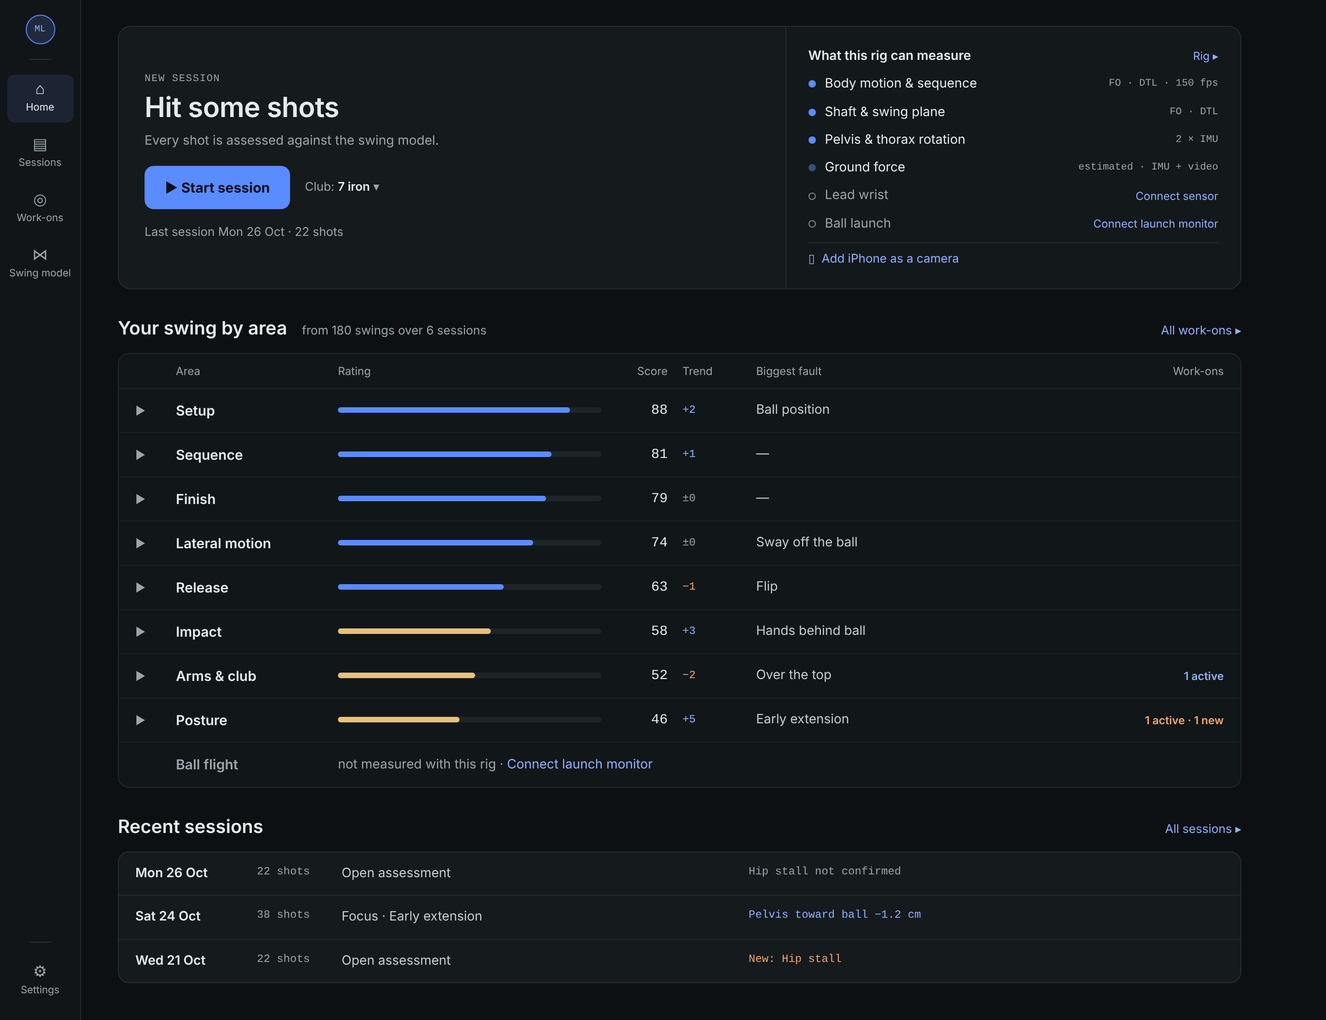
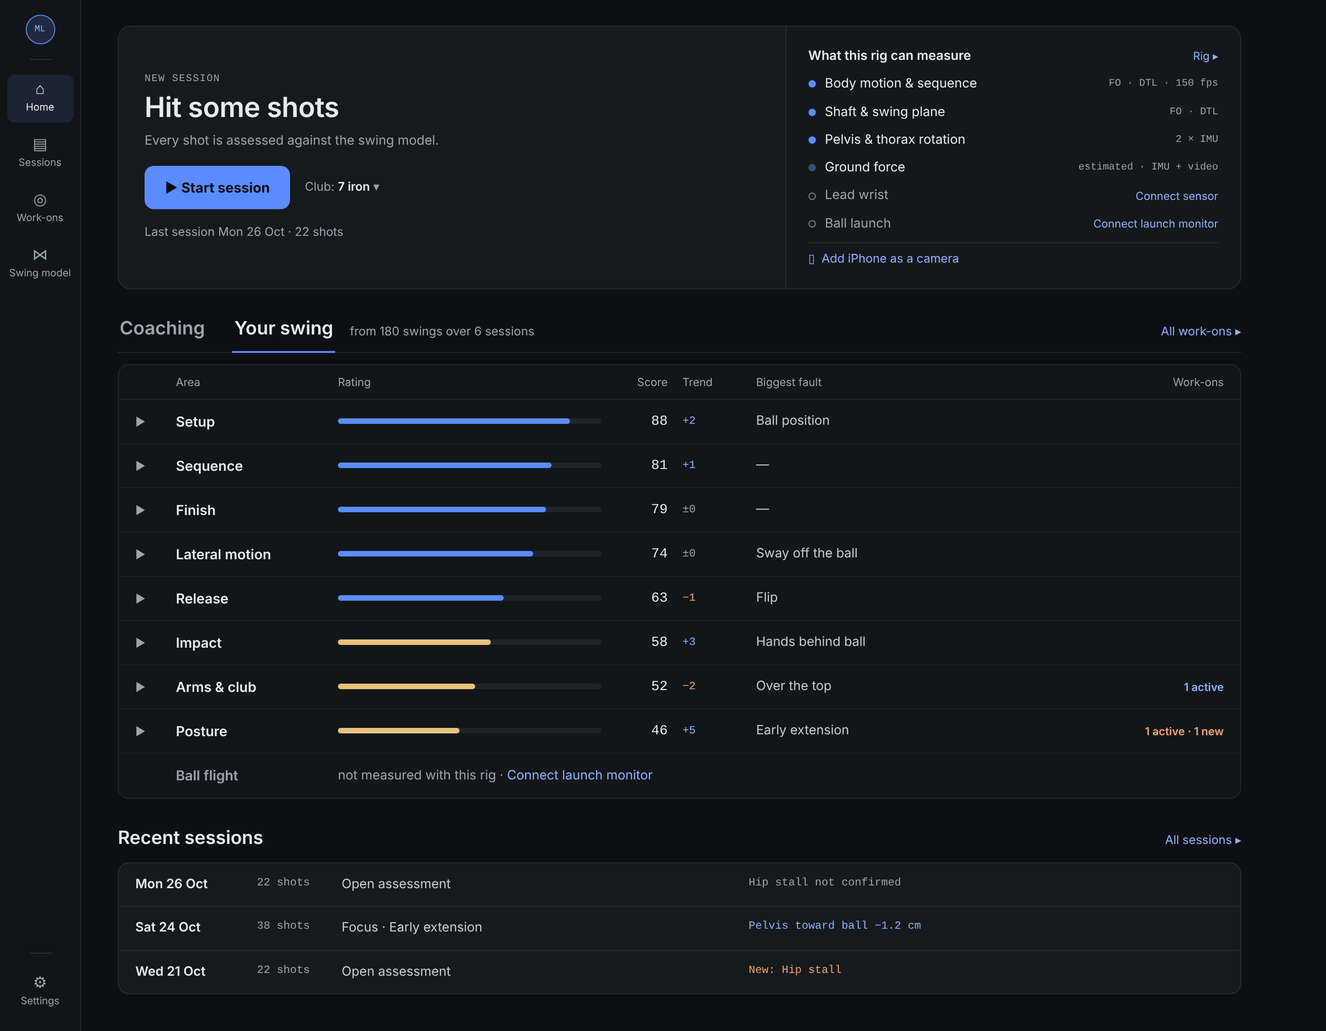
Docs: the four-modes refactor keeps the coaching summary as a Home tab, in a new visual language
Home's centrepiece is now two tabs on one tab bar: Coaching (the existing
work-ons summary and focus, same controller and words, redrawn) and Your
swing (the by-area table). Coaching is the default; the last tab is
remembered per athlete.

A new section 2.5 sets out the visual language as an app-wide aesthetic,
not a restyle of Home: table cards with hairline rows, expandable rows,
title-size tabs, the 10-segment how-often meter, trend tags and session
pips. It lists the shared components, the rule for updating an existing
component versus adding one (never fork), and the theme tokens needed in
all six aesthetics. Phase 4 gains a 4a step that builds those components
first, with before/after theme captures, so any regression elsewhere ships
apart from the Home rebuild.

The mockup and the two Home renders are updated, and two images are added:
03_home_coaching.png (the Coaching tab) and coaching_existing.png (today's
look, for comparison).

diff --git a/docs/design/ux_refactor_away_from_4_modes/home_mockup.html b/docs/design/ux_refactor_away_from_4_modes/home_mockup.html
@@ -49,6 +49,13 @@ h2{margin:0;font-size:20px;font-weight:600}
 .sess{background:#151A1D;border:1px solid #252D32;border-radius:12px}
 .srow{display:grid;grid-template-columns:120px 80px 1fr 1.2fr;gap:12px;padding:13px 18px;border-bottom:1px solid #232A2F}
 .srow:last-child{border-bottom:0}
+
+.card{border:1px solid #20272B;border-radius:12px;overflow:hidden;background:#111619}
+.ch{display:grid;column-gap:14px;padding:10px 18px;font-size:12px;color:#9AA6AC;border-bottom:1px solid #1A2024}
+.cr{display:grid;column-gap:14px;align-items:center;padding:0 18px;border-bottom:1px solid #1A2024}
+.seg{display:flex;gap:2px}.seg i{width:7px;height:6px;border-radius:1px;background:#232B30;display:block}
+.pips{display:flex;gap:3px;justify-content:flex-end}.pips i{width:6px;height:6px;border-radius:50%;display:block}
+.tag{white-space:nowrap;font-size:11px;font-weight:600;padding:1px 7px;border-radius:999px}
 </style>
 </head>
 <body>
@@ -91,11 +98,15 @@ h2{margin:0;font-size:20px;font-weight:600}
     </section>
 
     <section style="display:flex;flex-direction:column;gap:12px">
-      <div style="display:flex;align-items:baseline;gap:16px">
-        <h2>Your swing by area</h2>
-        <span class="muted" style="font-size:13px">from 180 swings over 6 sessions</span>
-        <a style="margin-left:auto;font-size:13px">All work-ons ▸</a>
+      <div style="display:flex;align-items:flex-end;gap:16px;border-bottom:1px solid #20272B">
+        <div role="tablist" style="display:flex;gap:28px">
+          <span role="tab" id="tabC" style="padding:0 2px 10px;font-size:20px;font-weight:600;color:#9AA6AC">Coaching</span>
+          <span role="tab" id="tabS" aria-selected="true" style="padding:0 2px 10px;font-size:20px;font-weight:600;color:#E6EBED;border-bottom:2px solid #5B8CFF;margin-bottom:-1px">Your swing</span>
+        </div>
+        <span class="muted" style="font-size:13px;padding-bottom:12px">from 180 swings over 6 sessions</span>
+        <a style="margin-left:auto;font-size:13px;padding-bottom:12px">All work-ons ▸</a>
       </div>
+      <div id="coach" style="display:none;flex-direction:column;gap:16px"></div>
       <div class="table" id="areas">
         <div class="grid hdr"><span></span><span>Area</span><span>Rating</span><span style="text-align:right">Score</span><span>Trend</span><span>Biggest fault</span><span style="text-align:right">Work-ons</span></div>
       </div>
@@ -129,6 +140,12 @@ const areas = [
     ['Hip stall','9/22','pelvis rotation velocity at P6','Watch','new'],
     ['Loss of posture','8/22','spine angle change P4→P7 · 7° · ≤ 5°','Watch','']]]
 ];
+if (location.hash==='#coaching') {
+  document.getElementById('areas').style.display='none';
+  document.getElementById('coach').style.display='flex';
+  const c=document.getElementById('tabC'), y=document.getElementById('tabS');
+  c.style.cssText=y.style.cssText; y.style.cssText='padding:0 2px 10px;font-size:20px;font-weight:600;color:#9AA6AC';
+}
 const open = new Set((location.hash.slice(1)||'Posture').split(',').map(decodeURIComponent));
 const tbl = document.getElementById('areas');
 const fillCol = s => s >= 60 ? '#5B8CFF' : s >= 45 ? '#E8C27A' : '#F0954A';
@@ -156,6 +173,38 @@ for (const [n,s,t,f,wo,items] of areas) {
 const bf = document.createElement('div'); bf.className='grid arow'; bf.style.borderBottom='0';
 bf.innerHTML = `<span></span><span class="n" style="color:#9AA6AC">Ball flight</span><span class="muted" style="grid-column:span 4">not measured with this rig · <a>Connect launch monitor</a></span><span></span>`;
 tbl.appendChild(bf);
+
+(function(){
+const segs=(sh,c)=>'<span class="seg">'+Array.from({length:10},(_,i)=>`<i style="${i<Math.round(sh*10)?'background:'+c:''}"></i>`).join('')+'</span>';
+const pips=(m,c)=>'<span class="pips">'+m.map(x=>`<i style="${x?'background:'+c:'border:1px solid #5E6A70'}"></i>`).join('')+'</span>';
+const tag=t=>t===1?'<span class="tag" style="color:#F6D2B2;background:#3A2716">↑ growing</span>':t===-1?'<span class="tag" style="color:#CFE0FF;background:#1C2433">↓ easing</span>':'';
+const amber='#E8C27A', blue='#5B8CFF';
+const rn=[['Your trail leg straightens going back',1,'almost every swing',0,[1,1,1,1]],['Your hips sway away from the target going back',.6,'more than half your swings',1,[0,1,1,1,1]]];
+const well=[['You keep your arms wide at the top',.9,'in the ideal range on almost every swing',[1,1,1,1,1]],['Your head stays centred going back',.9,'in the ideal range on almost every swing',[1,1,1,1,1]],['The club keeps speeding up into the ball',1,'in the ideal range on every swing',[1,1,1,1,1]]];
+const next=[['Your hands come over the top coming down',1,'almost every swing',0,[1,1,1,1],1],['You lean toward the target at the top',.9,'almost every swing',0,[1,1,1,1,1]],['Your hips are still speeding up after the ball',.9,'most swings',0,[1,1,1]],['Your body turns in the wrong order coming down',.7,'most swings',-1,[1,1,1]]];
+const g1='grid-template-columns:minmax(0,1fr) 96px 250px 80px';
+let h=`<div class="card">
+ <div style="display:flex;align-items:center;gap:16px;padding:16px 18px;border-bottom:1px solid #1A2024">
+  <span style="color:#8FB0FF;font-size:16px">◎</span><span class="cap">Your focus</span>
+  <span style="font-size:18px;font-weight:600">Trail hip load and hold</span>
+  <span class="muted" style="font-size:13px">covers 2 things on your list · comes earliest in your swing</span>
+  <span class="prac" style="margin-left:auto">▶ Practise</span></div>
+ <div style="display:grid;grid-template-columns:minmax(0,1fr) minmax(0,1.4fr)">
+  <div style="border-right:1px solid #1A2024"><div class="ch" style="grid-template-columns:1fr">Aim for</div>
+   ${['Your trail knee keeps its flex going back','Your hips turn in place going back'].map(a=>`<div class="cr" style="grid-template-columns:18px 1fr;height:48px"><span style="color:#8FB0FF">✓</span><span>${a}</span></div>`).join('')}</div>
+  <div><div class="ch" style="${g1}"><span>Right now</span><span>How often</span><span></span><span style="text-align:right">Sessions</span></div>
+   ${rn.map(r=>`<div class="cr" style="${g1};height:48px"><span>${r[0]}</span>${segs(r[1],amber)}<span style="display:flex;gap:8px;align-items:center;font-size:12px;color:#9AA6AC">${r[2]} ${tag(r[3])}</span>${pips(r[4],'#9AA6AC')}</div>`).join('')}</div>
+ </div>
+ <div style="display:flex;align-items:center;gap:12px;padding:13px 18px;color:#C4CDD1"><span class="chev">▶</span>Why it matters · how to practise</div>
+</div>`;
+const g2='grid-template-columns:18px minmax(0,1fr) 96px 80px';
+const list=(title,col,rows,good)=>`<div class="card"><div class="ch" style="${g2};padding:12px 18px"><span></span><span style="color:${col};font-weight:600">${title}</span><span>How often</span><span style="text-align:right">Sessions</span></div>
+ ${rows.map(r=>`<div class="cr" style="${g2};min-height:56px;padding:8px 18px"><span style="width:10px;height:10px;border-radius:50%;${good?'background:'+blue:'border:2px solid '+amber};box-sizing:border-box;display:block"></span>
+  <span style="display:flex;flex-direction:column;gap:2px"><span style="display:flex;align-items:center;gap:8px">${r[0]} ${!good&&r[5]?'<span class="tag" style="color:#CFE0FF;background:#1C2433;border:1px solid #34425E">Next</span>':''}</span><span style="font-size:12px;color:#9AA6AC;display:flex;gap:8px;align-items:center">${r[2]} ${good?'':tag(r[3])}</span></span>
+  ${segs(r[1],good?blue:amber)}${pips(good?r[3]:r[4],good?blue:'#9AA6AC')}</div>`).join('')}</div>`;
+h+=`<div style="display:grid;grid-template-columns:1fr 1fr;gap:16px">${list('What you do well','#8FB0FF',well,true)}${list('Next on your list',amber,next,false)}</div>`;
+document.getElementById('coach').innerHTML=h;
+})();
 </script>
 </body>
 </html>

diff --git a/docs/design/ux_refactor_away_from_4_modes.md b/docs/design/ux_refactor_away_from_4_modes.md
@@ -9,7 +9,8 @@ goal, the files it touches, what it reuses, what it adds, the tests that must ch
 acceptance checks. Phases are ordered so that each one ships on its own and leaves the app working.
 
 Visual reference (for humans): the Design canvas "PinPoint Studio — UX restructure", board
-**1 · Home** — https://claude.ai/code/artifact/06edc700-742b-4dd3-9f5e-01136988bced. Claude Code
+**1a · Home — Coaching tab** and **1b · Home — Your swing tab** —
+https://claude.ai/code/artifact/06edc700-742b-4dd3-9f5e-01136988bced. Claude Code
 cannot open it, and it predates the decisions in this document (it shows swing phases, not pack
 groups). **The authoritative visual reference is the PNGs in
 `docs/design/ux_refactor_away_from_4_modes/`** (Appendix A), rendered to match this document.
@@ -76,7 +77,27 @@ Three sections, top to bottom (wireframe in Appendix A.1):
    "last session" line. Right: **What this rig can measure** — one row per capability group,
    live/estimated/missing, with a "connect …" link on a gap, and the existing "Add iPhone as a
    camera" (PPCP pairing) entry.
-2. **Your swing by area** — the new centrepiece. One row per area, collapsed by default except the
+2. **Two tabs: Coaching | Your swing.** One tab bar (title-sized labels, underline on the
+   selected tab, the `summarySubtitle` evidence line and "All work-ons ▸" on the same baseline).
+   Both tabs read the same `workOns` controller and the same evidence; they answer different
+   questions, so neither replaces the other.
+
+   **Coaching** — *what to do next*, in the golfer's words. Today's YOUR SWING content (the
+   same `workOns` strings: `focusItem`, `doWellItems`, `nextItems`), **redrawn in the new visual
+   language** (§2.5), not the current card style. See `03_home_coaching.png`:
+   - **Your focus** card: header row (focus icon · YOUR FOCUS · title · reason in one line ·
+     **Practise**); below it two side-by-side tables, *Aim for* (tick rows) and *Right now* (fault
+     rows: text · how-often meter · frequency words + trend tag · session pips); then a collapsed
+     expand row **"Why it matters · how to practise"** holding the two paragraphs. The long text is
+     no longer shown by default.
+   - **What you do well** and **Next on your list**: two table cards side by side, same row
+     grammar (mark · text with frequency words beneath · how-often meter · session pips); "Next"
+     tag on the first item; trend tags (↑ growing / ↓ easing) beside the frequency words.
+   - No figures, no P-positions, no claims about cause — the golfer layer's rules from
+     `home_themes_design.md` still hold; only the presentation changes.
+
+   **Your swing** — *how the whole swing stands*, by area. The rest of this item describes it.
+   One row per area, collapsed by default except the
    weakest. Columns: chevron · area · rating bar · score · trend · biggest fault · work-ons count.
    Expanding a row lists that area's conditions (top 3–5 by impact) with: name · share of swings
    (`fired/assessable`) · typical value vs corridor · grade · one action:
@@ -85,13 +106,15 @@ Three sections, top to bottom (wireframe in Appendix A.1):
    - any other Watch/Action item → **Make work-on** *(D3)*;
    - a footer link **"All of <area> →"** opens Swing diagnostics filtered to that group.
 
-   The table replaces YOUR SWING (`HmSwingSummary`, `HmFocus`) on Home. It steers to the area of
-   most need while showing the whole swing ("your setup is nearly perfect; the work is in your
-   release").
+   It steers to the area of most need while showing the whole swing ("your setup is nearly
+   perfect; the work is in your release").
+
+   Default tab: **Coaching** (D6); the last tab chosen is remembered per athlete.
 3. **Recent sessions** — the existing `PpSessionReportList`, unchanged.
 
-Removed from Home: the 4-type card grid (`HmTypeCard`), the device-readiness block (folded into
-the capability panel), YOUR SWING.
+Removed from Home: the 4-type card grid (`HmTypeCard`) and the device-readiness block (folded
+into the capability panel). YOUR SWING stays, as the Coaching tab. Naming: the old section
+heading "Your swing" now names the area tab; the summary's tab is "Coaching".
 
 ### 2.4 Starting a session
 
@@ -104,6 +127,51 @@ the capability panel), YOUR SWING.
   keep using the panel's existing `_declareFocus` path (`PpSessionDiagnosticsBody.qml` l.123).
 - Session **goals** (`presets[].goals`, `appSettings.sessionGoalsByType`) are retired. "General
   assessment" becomes "no focus"; the other goals were pre-diagnostics placeholders.
+
+### 2.5 Visual language (applies beyond Home)
+
+> **This is a new aesthetic, not a restyle of one screen.** Table cards with hairline rows,
+> expandable rows, title-size text tabs, the 10-segment how-often meter, trend tags, monospace
+> figures and quiet section chrome replace the current card-and-pill look (compare
+> `coaching_existing.png` with `03_home_coaching.png`). It will extend across the app — session,
+> review, work-on and settings screens — so Home is only its first user.
+>
+> **Consequence: shared GUI components and theme tokens may need to change, not just be
+> wrapped.** `PpCard`, `PpMeter`, `PpPips`, `PpChip`, `PpBadge`, `PpRailButton`,
+> `PpSegmentedControl`, `PpMicro`/`PpDisplayText` and `Theme.qml` are used well beyond Home, and
+> the six theme aesthetics (instrument, editorial, studio, vector, terrain, links) must all carry
+> the new look. Changing a shared component therefore changes other screens. Treat that as
+> intended, but make it visible: every change to an existing shared component or token is listed
+> in its PR with the screens it affects, and checked with before/after `theme_render` and
+> `typeset_gallery` captures in every theme.
+
+Its parts are built once as shared components in `src/Gui/components/`. Both Home tabs, the area table and Recent
+sessions use only these:
+
+| Component | What it is | Used by |
+|---|---|---|
+| `PpTableCard` | Bordered card (radius 12, `colorBg2`-level ground) with an optional header row of column captions; children are rows separated by hairlines | every table on Home |
+| `PpTableRow` | Fixed-height row (48; 56 with a second line) on a column template shared with its card's header | areas, fault/strength lists, sessions |
+| `PpExpandRow` | `PpTableRow` with a chevron that rotates 90° and reveals a child block; keyboard-operable; `Accessible.role: Button`, expanded state exposed | areas, "Why it matters · how to practise" |
+| `PpHowOften` | 10-segment meter, 7×6 segments, 2 px gap; fault colour or strength colour; always paired with frequency words (colour is never the only channel) | Coaching lists |
+| `PpRatingBar` | 6-px track with fill by score band | area table |
+| `PpTrendTag` | Pill: "↑ growing" (`colorWarnLight`/`colorWarn`), "↓ easing" (`colorAccentLight`/`colorAccent`); numeric variant ("+5", "−2") in `fontData` for the area table | both tabs |
+| `PpSessionPips` | One dot per judged session, latest `maxPips`, hollow for a session that did not show it | Coaching lists (wrap `PpPips` if it fits) |
+| `PpTabBar` | Title-size text tabs with a 2-px accent underline, aside text and a right-aligned link on the same baseline | Home; later the session and review screens |
+
+For each row above, decide per component, and record the decision in the Phase 4a PR:
+
+1. **Update the existing component** when it is the same idea in the old look (e.g. `PpPips` →
+   session pips, `PpMeter` → how-often meter, `PpCard` → table card ground). Preferred: the old
+   look then retires everywhere at once rather than two looks living side by side.
+2. **Add a new component** only when no existing one is the same idea (`PpExpandRow`,
+   `PpTabBar`, probably `PpTableRow`).
+3. **Never fork** a near-copy of an existing component for Home alone.
+
+Theme tokens: add what the look needs (e.g. row height, hairline colour, segment size, tab
+underline) to `Theme.qml` for **all six aesthetics**, rather than hard-coding values in
+components. Existing token values may move where the new look needs them to; list every moved
+value in the PR.
 
 ## 3. What the code has today (findings)
 
@@ -146,7 +214,10 @@ the capability panel), YOUR SWING.
 | `PpMeter`, `PpChip`/`PpBadge`, `PpLink`, `PpPressable`, `PpMicro`, `PpDivider` | **Reuse** | Rating bar, state chips, links, rows, captions. |
 | `HmTypeCard` | **Delete** (Phase 5) | |
 | `ScreenPlaceholder` uses for Swing/GRF/Coach | **Delete** (Phase 1) | |
-| `HmSwingSummary`, `HmFocus` | **Retire from Home** (Phase 4); delete or re-home in Phase 5 per D4 | |
+| `HmSwingSummary`, `HmFocus` | **Adapt** — same controller bindings and states (reading / updating / nothing yet), new layout built from the §2.5 components | `HmFocus` gains Practise (`practiseRequested(conditionId)`) and the collapsed why/how row. |
+| §2.5 shared components | **New** in `src/Gui/components/` | Built in Phase 4a before the Home screens use them. |
+| `swingSummaryView` (`focusItem`) | **Adapt** | Add `focusConditionId` — the condition the focus contract should declare (the theme's root/first `rightNow` condition). Words unchanged. |
+| `home/HmHomeTabs.qml` | **New** | Tab bar + `StackLayout` holding `HmSwingSummary` and `HmSwingAreas`; remembers the tab per athlete. `PpSegmentedControl` is the fallback if a plain tab bar fights the theme. |
 | `HmGoesTogether` | **Keep** in Swing diagnostics | |
 | `presets[].railIndex`, `presets[].goals`, `appSettings.sessionGoalsByType`, `appSettings.lastSessionType` | **Delete** (Phase 2) | Migrate settings silently (ignore unknown keys). |
 
@@ -315,20 +386,34 @@ resolver picks from rig capability, otherwise it is a constant.
 - `home/HmRigCapability.qml`: one row per `setupSummary()` group for the currently connected kit;
   extract the "facts from current devices" part of `SetupContext.qml` (l.587–625) into a small
   shared helper so Home and the wizard compute identical facts. Keep the PPCP pairing entry.
+- **4a — shared components and tokens first** (§2.5): update or add each component per the
+  §2.5 decision rule, add tokens to all six aesthetics, give each component a `tst_*.qml` and a
+  gallery entry in the `typeset_gallery`/`theme_render` probes. Because existing components
+  change, capture `theme_render` **before and after** in every theme and list each affected
+  screen in the PR. 4a ships on its own (with Home still on its old layout) so any regression
+  elsewhere is isolated from the Home rebuild.
+- `home/HmHomeTabs.qml` (on `PpTabBar`): tabs **Coaching** and **Your swing** (`HmSwingAreas`);
+  default Coaching (D6); last tab per athlete.
+- Re-lay `HmSwingSummary.qml` and `HmFocus.qml` on the §2.5 components to match
+  `03_home_coaching.png`; keep every binding to `workOns` and every state. `HmFocus` gains
+  Practise → `practiseRequested(focusItem.focusConditionId)`; add `focusConditionId` to
+  `focusItem` in `swingSummaryView` (no recompute, words unchanged).
 - `ScreenHome.qml`: §2 → Start (one button + club picker + last session line); §3 →
-  `HmSwingAreas`; §4 → `HmRigCapability`; §5 unchanged. Wire `practiseRequested` →
+  `HmHomeTabs`; §4 → `HmRigCapability`; §5 unchanged. Wire `practiseRequested` →
   `startSessionRequested({focusConditionId})`; `allInAreaRequested` → new
   `swingDiagnosticsRequested(group)` → `ScreenSwingDiagnostics.groupFilter`.
-- Probes to update/replace: `tests/probes/work_ons_home.qml`, `tests/probes/swing_themes_home.qml`;
-  add `tests/qml/tst_swing_areas.qml` driving `HmSwingAreas` with a fake controller.
-- Accept when: a screenshot of Home matches `02_home_weakest_expanded.png` in layout and
-  proportion (compare side by side and list any differences in the PR); Appendix A.1/A.2 are
+- Probes: update `tests/probes/swing_themes_home.qml` for the new layout (same strings,
+  select the Coaching tab first); update `tests/probes/work_ons_home.qml`; add
+  `tests/qml/tst_swing_areas.qml` driving `HmSwingAreas` with a fake controller and
+  `tests/qml/tst_home_tabs.qml` (default tab, switching, per-athlete memory).
+- Accept when: screenshots of Home match `03_home_coaching.png` (Coaching tab) and
+  `02_home_weakest_expanded.png` (Your swing tab) in layout and proportion (compare side by side and list any differences in the PR); Appendix A.1/A.2 are
   reproduced in every theme (`theme_render` probe); keyboard can
   expand/collapse rows and reach every action; no figure appears without its unit and corridor.
 
 ### Phase 5 — Clean-up
 
-Delete `HmTypeCard.qml`; delete or re-home `HmSwingSummary.qml`/`HmFocus.qml` (D4); remove dead
+Delete `HmTypeCard.qml`; remove dead
 `Theme`/asset references (`qrc:/assets/tiles/*.png` used only by the type cards); remove the
 `comingSoonTypes` logic in `ScreenHome`; update `home_themes_design.md` and
 `session_wizard_refactor_design.md` to point here. Rename `ScreenWrist` → `ScreenSession` as a
@@ -347,9 +432,10 @@ separate mechanical commit.
   "New"; no Add/Make buttons. If adoption is wanted, add an athlete-level
   `<athlete>/work_on_choices.json` (`adopted`, `dismissed` sets) consulted only for display and
   ordering — never for detection.
-- **D4 — "Your focus" and "What you do well".** The approved Home drops both: strengths are high
-  areas, the focus is the Practise button. Keep the components for a possible session-start
-  suggestion, or delete in Phase 5.
+- **D4 — "Your focus" and "What you do well".** *Decided 27 Oct:* kept, as the Coaching tab.
+- **D6 — Default tab.** Coaching (what to do next) by default; Your swing (the holistic view)
+  one click away; the last choice remembered per athlete. Alternative: open on Your swing for a
+  coach-led athlete.
 - **D5 — Rail width.** The current rail is an icon column with labels beneath; the approved
   mockup shows a wider labelled rail. Phase 1 keeps the current rail; widening is cosmetic and can
   follow.
@@ -371,8 +457,10 @@ removing `sessionType` from the analysis pipeline; mobile layouts.
 
 | File | Shows |
 |---|---|
-| `ux_refactor_away_from_4_modes/01_home_collapsed.png` | Home, every area collapsed |
-| `ux_refactor_away_from_4_modes/02_home_weakest_expanded.png` | Home as first shown: the weakest area (Posture) expanded, with Practise on the active work-on and "New" on a newly listed one (D3 default) |
+| `ux_refactor_away_from_4_modes/03_home_coaching.png` | Home on the **Coaching** tab (the default): today's YOUR SWING content redrawn in the §2.5 visual language, why/how collapsed |
+| `ux_refactor_away_from_4_modes/01_home_collapsed.png` | Home on the **Your swing** tab, every area collapsed |
+| `ux_refactor_away_from_4_modes/02_home_weakest_expanded.png` | **Your swing** tab as first shown: the weakest area (Posture) expanded, with Practise on the active work-on and "New" on a newly listed one (D3 default) |
+| `ux_refactor_away_from_4_modes/coaching_existing.png` | **Before**: today's YOUR SWING, for comparison only — do not build to it |
 | `ux_refactor_away_from_4_modes/home_mockup.html` | The static page the PNGs were rendered from (1440 px wide, 2× scale) |
 
 How to read them:
@@ -402,7 +490,8 @@ Content max width: `Theme.contentWidth(width)` as other screens.
 │      │ │                                              │ ▯ Add iPhone as a camera            │ │
 │      │ └──────────────────────────────────────────────┴─────────────────────────────────────┘ │
 │      │                                                                                         │
-│      │ Your swing by area   from 180 swings over 6 sessions             All work-ons ▸         │
+│      │ Coaching   [Your swing]   from 180 swings over 6 sessions        All work-ons ▸         │
+│      │ ─────────  ══════════                                                                   │
 │      │ ┌───────────────────────────────────────────────────────────────────────────────────┐ │
 │      │ │    Area           Rating                 Score  Trend  Biggest fault     Work-ons │ │
 │      │ │ ▸  Setup          ██████████████████▒▒    88     +2    Ball position             │ │
